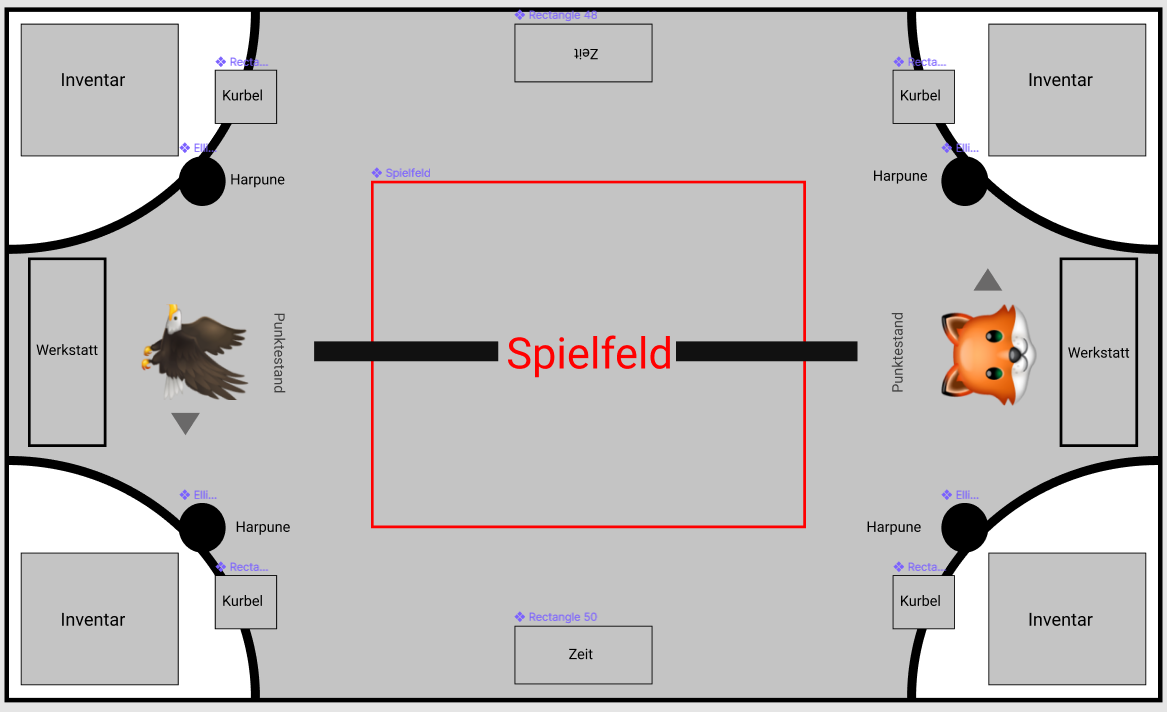
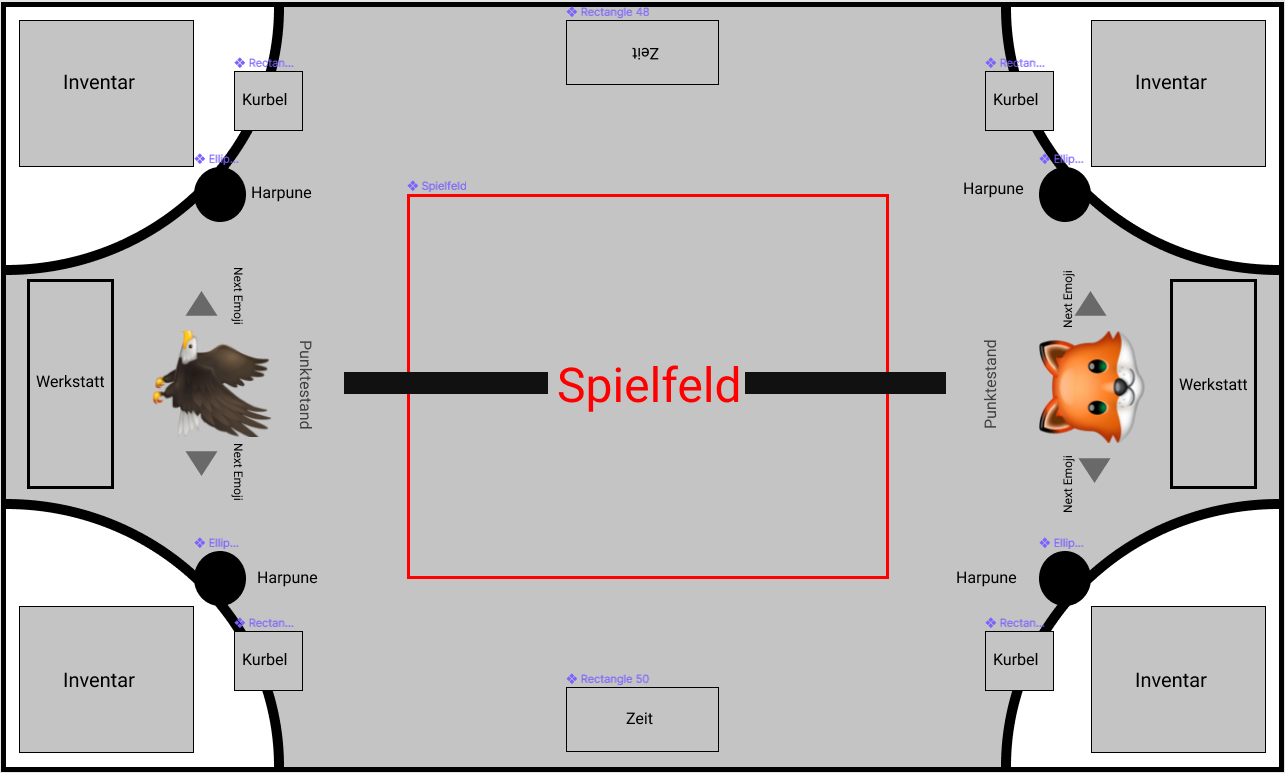
added object designs

diff --git a/vorgehen/presentation.md b/vorgehen/presentation.md
@@ -259,6 +259,14 @@ Shapemoji
 
 ## Objektdesigns
 
+![](img/method/ObjektDesign.png)
+
+--
+
+## Objektdesigns - Emojis
+
+![](img/method/ObjektDesign2.png)
+
 --
 
 ## User Story Map
